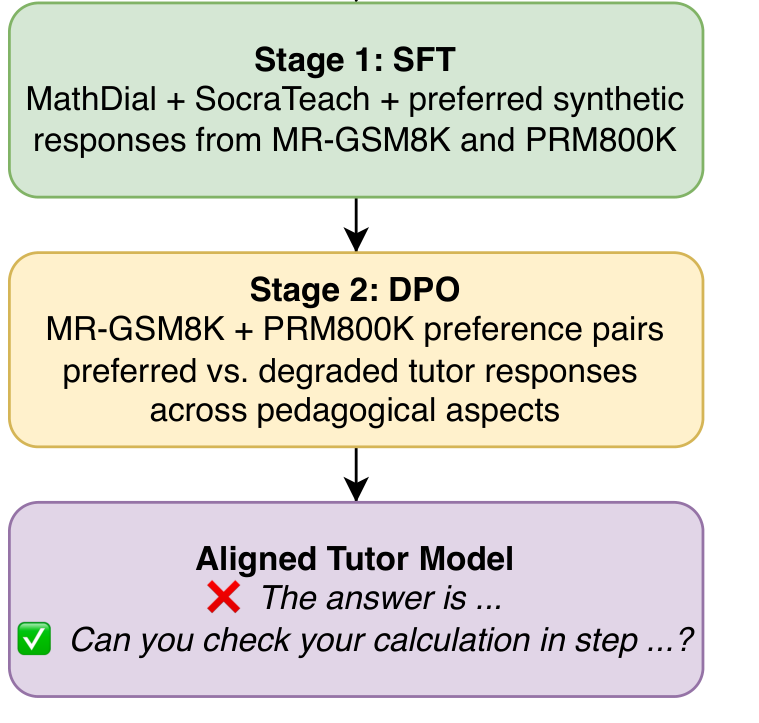
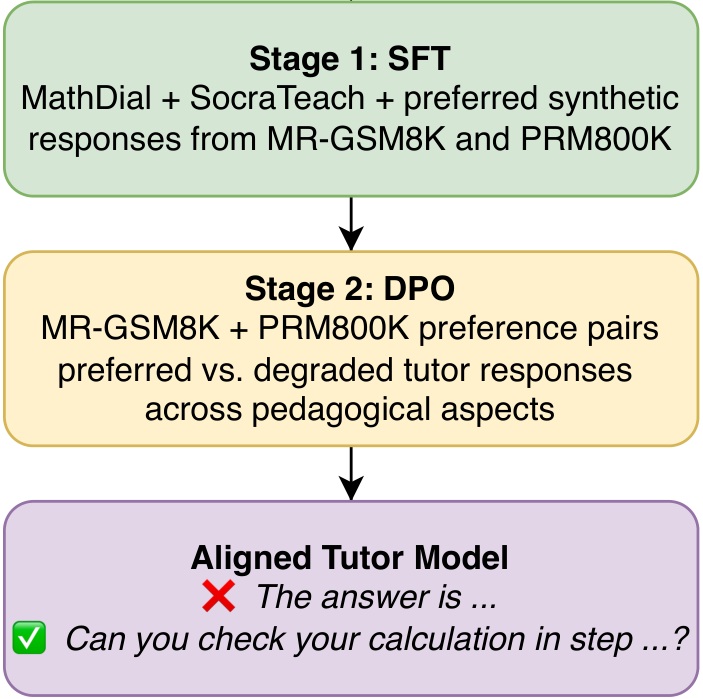
Fix BEA and SOICT publication figures
Recrop the BEA figure to its exact bounds and link the full Figure 1,
use the native SOICT image, enlarge thumbnails, and bust stale caches.

diff --git a/index.html b/index.html
@@ -72,7 +72,7 @@
         <article class="paper">
           <div class="paper-media">
             <div class="badge">BEA 2026</div>
-            <a class="thumb" href="images/bea-2026.png" target="_blank" rel="noopener"><img src="images/bea-2026.png" alt="Two-stage alignment pipeline: supervised fine-tuning, then Direct Preference Optimization, producing an aligned tutor model." loading="lazy"></a>
+            <a class="thumb" href="images/bea-2026-full.png?v=3" target="_blank" rel="noopener"><img src="images/bea-2026.png?v=3" alt="Two-stage alignment pipeline: supervised fine-tuning, then Direct Preference Optimization, producing an aligned tutor model." loading="lazy"></a>
           </div>
           <div class="paper-text">
             <a class="paper-title" href="https://aclanthology.org/2026.bea-1.10/" target="_blank" rel="noopener">Towards Pedagogically Aligned LLM Tutors for Math Mistake Remediation</a>
@@ -109,7 +109,7 @@
         <article class="paper">
           <div class="paper-media">
             <div class="badge">SOICT 2024</div>
-            <a class="thumb" href="images/soict-2024.png" target="_blank" rel="noopener"><img src="images/soict-2024.png" alt="Chunking strategy: a text segmentation model splits a document into segments, which are then clustered into chunks." loading="lazy"></a>
+            <a class="thumb" href="images/soict-2024.png?v=3" target="_blank" rel="noopener"><img src="images/soict-2024.png?v=3" alt="Chunking strategy: a text segmentation model splits a document into segments, which are then clustered into chunks." loading="lazy"></a>
           </div>
           <div class="paper-text">
             <a class="paper-title" href="https://doi.org/10.1007/978-981-96-4288-5_17" target="_blank" rel="noopener">Enhancing Retrieval Augmented Generation with Hierarchical Text Segmentation Chunking</a>

diff --git a/style.css b/style.css
@@ -124,7 +124,7 @@ li em { color: var(--heading); }
 /* Publication entries */
 .paper {
   display: grid;
-  grid-template-columns: 250px minmax(0, 1fr);
+  grid-template-columns: 300px minmax(0, 1fr);
   gap: 22px;
   padding: 18px 0;
   border-bottom: 1px solid var(--rule);
